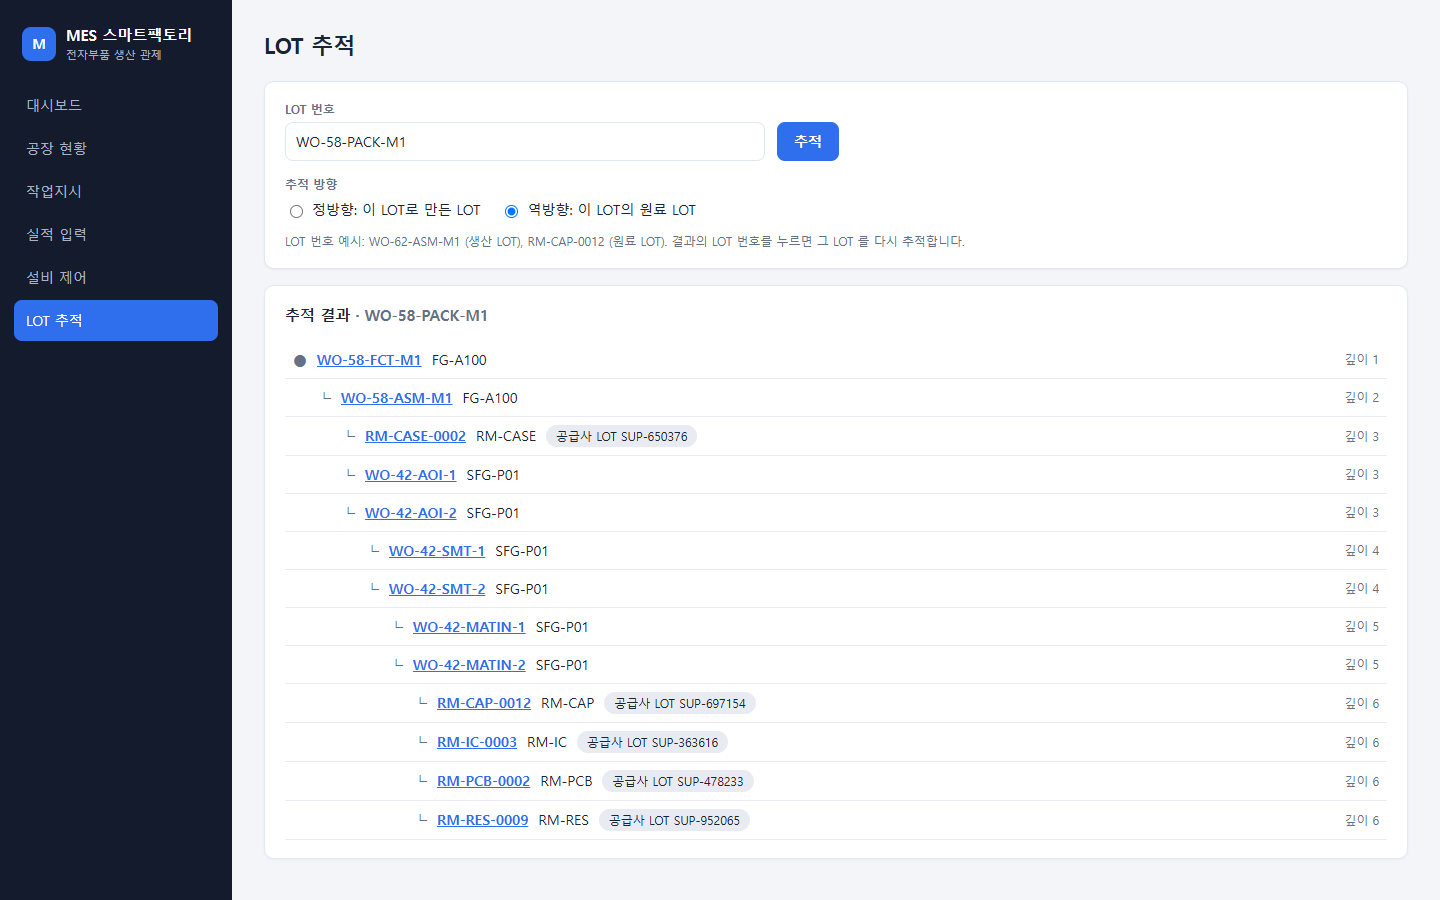
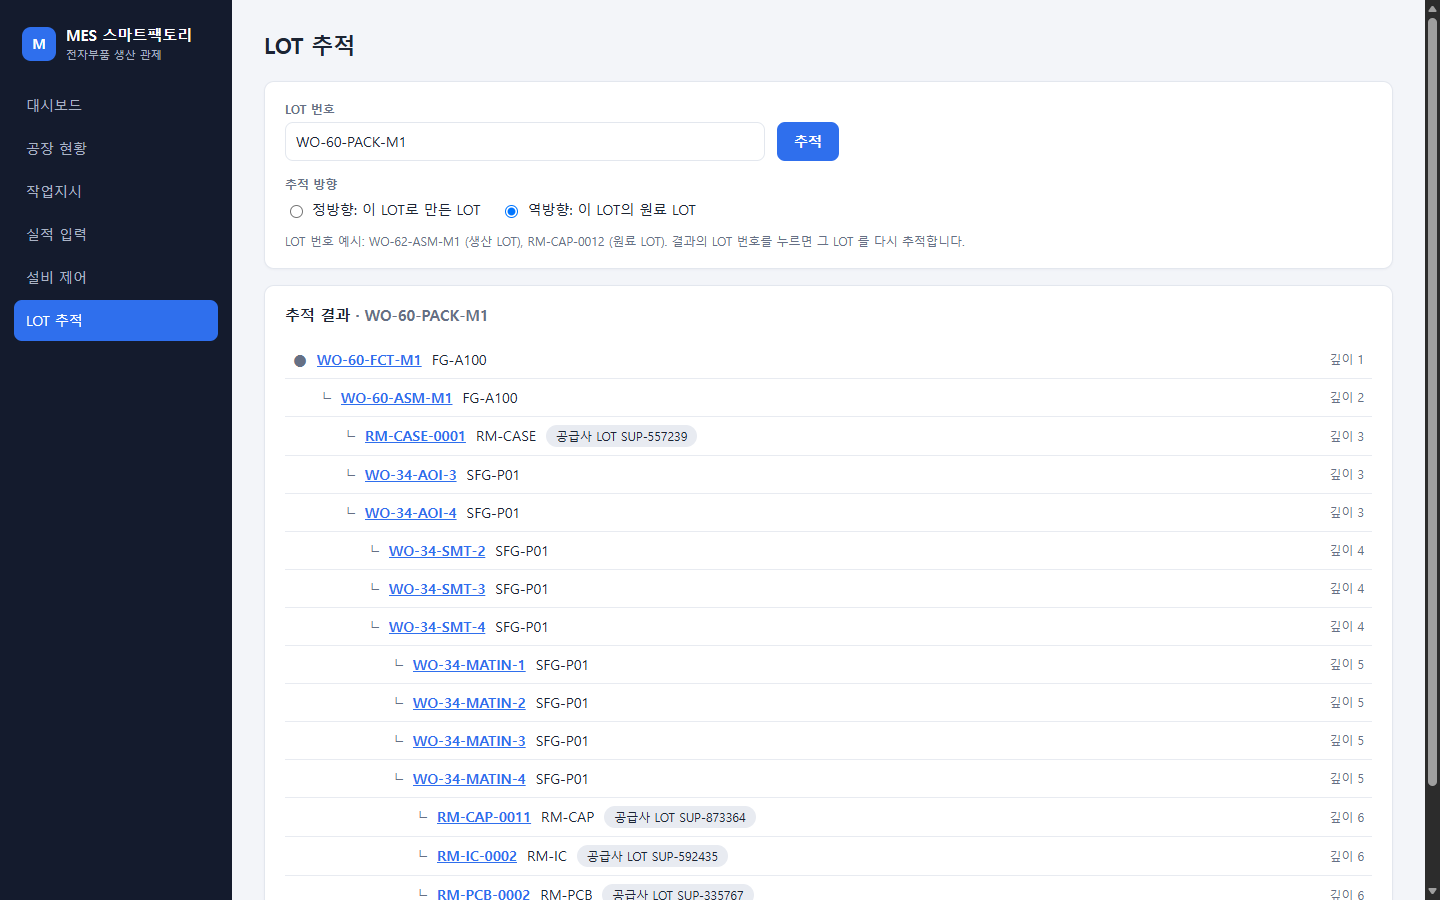
docs: reshoot screenshots with UI-driven data; document WIP and concurrency rules
All seven screenshots come from one session: reset DB, simulator
quick-fill plus continuous run, then the L1-SMT-01 DOWN change, a new
work order (WO-60) and its ASM/FCT/PACK results entered through the UI
forms (headless Edge driven over CDP), so the captions are literally
true. README: no duplicate dashboard image, upstream-WIP 422 rule,
commit-before-response, API/simulator concurrency, test counts
(pytest 135, vitest 54). erd.md: manual-entry WIP rule and WO lock.

diff --git a/README.md b/README.md
@@ -44,41 +44,41 @@ flowchart LR
 
 ## 화면
 
-모든 스크린샷은 시뮬레이터가 돌고 있는 실제 실행 화면입니다(가상 데이터, 헤드리스 Edge 로 캡처). 시뮬레이터로 약 50시간(`--once 300`, 틱 10분)을 채운 뒤 `--speed 60` 연속 모드를 켜 둔 상태이며, 화면 값은 실행 시점에 따라 달라집니다.
+모든 스크린샷은 시뮬레이터가 돌고 있는 실제 실행 화면이며 한 번의 실행에서 연속으로 캡처했습니다(가상 데이터, 헤드리스 Edge 1440x900). 시뮬레이터로 약 50시간(`--once 300`, 틱 10분)을 채운 뒤 `--speed 60` 연속 모드를 켜 두었고, 그 상태에서 **설비 정지, 작업지시 등록, 실적 입력은 모두 브라우저 화면의 폼을 직접 조작해**(Edge 를 DevTools 프로토콜로 구동해 선택·입력·버튼 클릭) 만들었습니다. 화면 값은 실행 시점에 따라 달라집니다.
 
 ### 1. 대시보드 (`/`)
-![대시보드](docs/screenshots/dashboard.png)
+맨 위 이미지가 대시보드입니다.
 
-KPI 카드(최근 24시간(2교대) 평균 OEE, 공정 전체 누적 불량률, 가동 설비 수), 설비별 OEE 와 공정별 불량률 차트, 진행 중 작업지시 진행률. 수치는 전부 SQL 뷰의 결과입니다.
+KPI 카드(최근 24시간(2교대) 평균 OEE, 공정 전체 누적 불량률, 가동 설비 수), 설비별 OEE 와 공정별 불량률 차트, 진행 중 작업지시 진행률. 수치는 전부 SQL 뷰의 결과입니다. DB 에 생산 실적이 하나도 없으면(초기화 직후) 차트 대신 "데이터가 없습니다. 시뮬레이터를 실행하세요" 안내가 나옵니다.
 
 ### 2. 공장 현황 — Digital Twin 2D (`/floor`)
 ![공장 현황](docs/screenshots/floor.png)
 
-라인 x 공정 순서의 배치도에서 설비가 가동(초록)/대기(노랑)/정지(빨강) 로 표시됩니다. 설비를 클릭하면 오른쪽에 상태·사유·시작 시각, 최근 교대별 가동/성능/양품률과 OEE, 최근 실적이 나옵니다. 위 캡처는 `L1-SMT-01` 을 설비 제어 화면에서 설비고장으로 정지시킨 뒤 선택한 모습입니다.
+라인 x 공정 순서의 배치도에서 설비가 가동(초록)/대기(노랑)/정지(빨강) 로 표시됩니다. 설비를 클릭하면 오른쪽에 상태·사유·시작 시각, 최근 교대별 가동/성능/양품률과 OEE, 최근 실적이 나옵니다. 위 캡처는 `L1-SMT-01` 을 설비 제어 화면(6번)에서 설비고장으로 정지시킨 뒤 배치도에서 선택한 모습입니다.
 
 ### 3. 작업지시 (`/work-orders`)
 ![작업지시](docs/screenshots/work-orders.png)
 
-상태별 필터, 진행률 막대. 오른쪽 위 "신규 등록" 으로 품목(완제품/반제품)·라인·수량·납기일을 입력해 PLANNED 작업지시를 만듭니다. 행을 클릭하면 상세(공정별 누적 양품/불량, 생성된 LOT 목록)로 이동합니다.
+상태별 필터, 진행률 막대. 오른쪽 위 "신규 등록" 으로 품목(완제품/반제품)·라인·수량·납기일을 입력해 PLANNED 작업지시를 만듭니다. 행을 클릭하면 상세(공정별 누적 양품/불량, 생성된 LOT 목록)로 이동합니다. 위 캡처 맨 위의 `WO-60`·`WO-59` 는 이 화면의 "신규 등록" 폼으로 만들고 실적 입력 화면에서 공정별 실적을 입력한 작업지시이고, 나머지는 시뮬레이터가 만든 것입니다.
 
 ### 4. 실적 입력 (`/results/new`)
 ![실적 입력](docs/screenshots/result-entry.png)
 
-작업지시 → 해당 품목 라우팅의 공정 → 해당 라인·공정의 설비를 연쇄 선택하고, 양품 수량·소요 시간·불량 내역(불량코드, 재작업/폐기, 수량)을 입력합니다. 서버가 LOT 를 자동 생성하고 직전 공정 LOT(첫 공정이면 원자재 공급사 LOT)와 계보로 연결합니다. 재고 부족·초과생산 같은 DB 규칙 위반은 409 와 한국어 사유로 화면에 표시됩니다.
+작업지시 → 해당 품목 라우팅의 공정 → 해당 라인·공정의 설비를 연쇄 선택하고, 양품 수량·소요 시간·불량 내역(불량코드, 재작업/폐기, 수량)을 입력합니다. 서버가 LOT 를 자동 생성하고 직전 공정 LOT(첫 공정이면 BOM 자재 LOT: 원자재 공급사 LOT·반제품 LOT)와 계보로 연결합니다. 후공정은 **전공정 재공**(직전 공정 누적 양품 − 이 공정 누적 투입(양품+불량))까지만 입력할 수 있어, 넘으면 `422 전공정 재공이 부족합니다 (가능 수량: N)` 으로 거부합니다(시뮬레이터와 같은 식). 그래서 수동 입력 LOT 도 항상 앞 공정 LOT 와 계보가 이어집니다. 재고 부족·초과생산 같은 DB 규칙 위반은 409 와 한국어 사유로 화면에 표시됩니다. 위 캡처는 화면에서 등록한 `WO-60`(센서 모듈 A100, 30개)에 조립 30, 기능검사 28(기능불량 폐기 2)을 입력한 뒤, 포장 27 + 외관불량 재작업 1 을 입력하는 폼입니다.
 
 ![실적 등록 완료](docs/screenshots/result-entry-saved.png)
 
-등록하면 생성된 LOT 번호(`WO-<작업지시>-<공정코드>-M<순번>`)가 링크로 나오고, 누르면 LOT 추적 화면으로 이동합니다.
+등록하면 생성된 LOT 번호(`WO-<작업지시>-<공정코드>-M<순번>`)가 링크로 나오고, 누르면 LOT 추적 화면으로 이동합니다(위 캡처: `WO-60-PACK-M1`).
 
 ### 5. LOT 추적 (`/lots`)
 ![LOT 추적](docs/screenshots/lot-trace.png)
 
-LOT 번호와 방향(정방향: 이 LOT 로 만든 LOT, 역방향: 이 LOT 의 원료 LOT)을 고르면 `trace_forward` / `trace_backward` 결과를 깊이별 트리로 보여 줍니다. 위 캡처는 화면에서 수동 입력한 포장 LOT `WO-58-PACK-M1` 의 역방향 추적입니다. 기능검사 → 조립 → 시뮬레이터가 만든 반제품(AOI → SMT → 자재투입) LOT 와 원자재 공급사 LOT 까지 거슬러 올라갑니다. 결과의 LOT 번호를 누르면 그 LOT 를 다시 추적합니다.
+LOT 번호와 방향(정방향: 이 LOT 로 만든 LOT, 역방향: 이 LOT 의 원료 LOT)을 고르면 `trace_forward` / `trace_backward` 결과를 깊이별 트리로 보여 줍니다. 위 캡처는 4번에서 화면으로 입력한 포장 LOT `WO-60-PACK-M1` 의 역방향 추적입니다(완료 안내의 LOT 링크를 누른 뒤 역방향 선택). 기능검사(`WO-60-FCT-M1`) → 조립(`WO-60-ASM-M1`) → 조립에 투입된 케이스 원자재 LOT 와 시뮬레이터가 만든 반제품 LOT(`WO-34` AOI → SMT → 자재투입) → 원자재 공급사 LOT 까지 거슬러 올라갑니다. 결과의 LOT 번호를 누르면 그 LOT 를 다시 추적합니다.
 
 ### 6. 설비 제어 (`/equipment`)
 ![설비 제어](docs/screenshots/equipment.png)
 
-설비별로 상태(가동/대기/정지)와 비가동 사유를 골라 변경합니다. 정지(DOWN)는 사유가 필수입니다. 열려 있는 상태 로그를 닫고 새 로그를 여는 동작이며(설비당 진행 중 로그는 1개라는 DB 제약 준수), "이력" 버튼으로 상태 이력을 봅니다. 위 캡처에서 `L1-SMT-01` 이 설비고장으로 정지 중입니다.
+설비별로 상태(가동/대기/정지)와 비가동 사유를 골라 변경합니다. 정지(DOWN)는 사유가 필수입니다. 열려 있는 상태 로그를 닫고 새 로그를 여는 동작이며(설비당 진행 중 로그는 1개라는 DB 제약 준수), "이력" 버튼으로 상태 이력을 봅니다. 행의 선택값은 서버 상태가 바뀌면(시뮬레이터의 전이 포함) 현재 상태로 다시 맞춰집니다. 위 캡처는 이 화면에서 `L1-SMT-01` 을 정지·설비고장으로 바꾸고 "변경" 을 누른 직후입니다.
 
 ## 프로젝트 구조
 
@@ -200,8 +200,8 @@ cd frontend; npm test           # vitest 컴포넌트 테스트 (npx vitest run 
 cd frontend; npm run build      # 타입체크(tsc -b) + 프로덕션 빌드
 ```
 
-- `pytest` 108개: 스키마·제약(설비당 진행 중 로그 1개, 설비 ID 순서), 세션 시간대, 트리거(backflush, 초과생산, 재고 부족 롤백, 재고 행 없음 거부, 상태 전이), LOT 추적(순환 포함), 뷰(고정 시나리오, 야간조 귀속, 교대 경계 분할, 진행 중 교대의 now() 캡, 0 나눔·품질률 NULL), 시뮬레이터(seed 재현성, 라인별 작업지시, 일감 없을 때 자재대기, 완전한 교대의 성능률·OEE 범위, 검사 공정 불량 집중, LOT 계보가 라우팅을 따르는지, 교대 경계 실적 분할, 시계 규칙, 정지 처리, CLI 가 미래 시각을 쓰지 않는지), API(`tests/api`: 조회 엔드포인트와 직렬화, 실제 행이 있을 때 KPI/OEE/불량률 값, 작업지시 등록, 실적 입력의 LOT·계보·수불 생성과 순번, 재고 부족·초과생산 409, 잘못된 조합 422/404, 설비 상태 변경, 정적 서빙과 SPA fallback).
-- `vitest` 49개: 배치도, 상태 배지, 작업지시 등록 폼, 실적 입력 폼 검증, LOT 추적 화면, 대시보드.
+- `pytest` 135개: 스키마·제약(설비당 진행 중 로그 1개, 설비 ID 순서), 세션 시간대, 트리거(backflush, 초과생산, 재고 부족 롤백, 재고 행 없음 거부, 상태 전이), LOT 추적(순환 포함), 뷰(고정 시나리오, 야간조 귀속, 교대 경계 분할, 진행 중 교대의 now() 캡, 0 나눔·품질률 NULL), 시뮬레이터(seed 재현성, 라인별 작업지시, 일감 없을 때 자재대기, 완전한 교대의 성능률·OEE 범위, 검사 공정 불량 집중, LOT 계보가 라우팅을 따르는지, 교대 경계 실적 분할, 시계 규칙, 정지 처리, CLI 가 미래 시각을 쓰지 않는지), API(`tests/api`: 조회 엔드포인트와 직렬화, 실제 행이 있을 때 KPI/OEE/불량률 값, 작업지시 등록, 실적 입력의 LOT·계보·수불 생성과 순번, 재고 부족·초과생산 409, 후공정 입력의 전공정 재공 한도 422, 잘못된 조합 422/404, 설비 상태 변경, 동시 쓰기 충돌 409(시뮬레이터와 경쟁 재현), 응답 전 commit(commit 실패 시 성공 응답이 나가지 않음), 정적 서빙과 SPA fallback(UNC·드라이브·NUL 경로가 파일시스템에 닿지 않음)). 시뮬레이터는 API 가 연 상태 로그와 충돌해도 죽지 않고 그 설비만 한 틱 건너뜁니다(테스트 포함).
+- `vitest` 54개: 배치도, 상태 배지, 작업지시 등록 폼, 실적 입력 폼 검증, LOT 추적 화면, 대시보드(실제 빈 DB 응답 모양에서의 안내), 설비 제어(서버 상태 재동기화).
 - `pytest` 는 `mes_test` DB 만 사용하며(세션 시작 시 그 DB 의 public 스키마를 비움), 개발 DB 는 건드리지 않습니다. 테스트는 `mes` 롤이 `mes_test` 에 접속할 수 있어야 하므로 1단계의 DB 생성이 필요합니다.
 
 ## 시연 순서
@@ -211,7 +211,7 @@ cd frontend; npm run build      # 타입체크(tsc -b) + 프로덕션 빌드
 1. **대시보드**: KPI 카드와 설비별 OEE, 공정별 불량률이 5초마다 갱신되는 것을 확인합니다.
 2. **공장 현황**: 배치도에서 설비 상태 색이 바뀌는 것을 보고, 설비 하나를 눌러 최근 OEE 와 실적을 봅니다.
 3. **작업지시 등록**: "신규 등록" 으로 완제품(예: 센서 모듈 A100)·라인·수량·납기일을 입력합니다. PLANNED 로 생성됩니다.
-4. **실적 입력**: 방금 만든 작업지시를 선택해 첫 공정부터 양품·불량을 입력합니다. 생성된 LOT 번호(`WO-<작업지시>-<공정>-M1`)가 표시되고, 작업지시 상태가 PLANNED → RUNNING 으로 바뀝니다. 앞 공정 LOT 가 필요한 완제품은 같은 방식으로 공정을 차례로 입력합니다. 계획 수량을 넘기거나 재고가 모자라게 입력하면 거부 사유가 표시됩니다.
+4. **실적 입력**: 방금 만든 작업지시를 선택해 첫 공정부터 양품·불량을 입력합니다. 생성된 LOT 번호(`WO-<작업지시>-<공정>-M1`)가 표시되고, 작업지시 상태가 PLANNED → RUNNING 으로 바뀝니다. 이어서 다음 공정을 차례로 입력합니다(후공정은 앞 공정 양품 중 아직 투입되지 않은 수량까지만 가능). 첫 공정을 건너뛰고 포장부터 입력하거나, 계획 수량을 넘기거나, 재고가 모자라게 입력하면 거부 사유가 표시됩니다.
 5. **LOT 추적**: 실적 입력 완료 화면의 LOT 링크로 이동해 역방향 추적으로 원자재 공급사 LOT 까지 거슬러 올라가고, 원자재 LOT 를 눌러 정방향으로 리콜 범위를 보여 줍니다.
 6. **설비 제어**: 설비 하나를 정지(DOWN, 사유 선택)로 바꾸고 공장 현황에서 빨간색으로 바뀐 것을 확인한 뒤, 가동으로 복구합니다.
 
@@ -219,7 +219,7 @@ cd frontend; npm run build      # 타입체크(tsc -b) + 프로덕션 빌드
 
 ## 직접 SQL 로 LOT 추적
 
-번호 형식은 생산 LOT `WO-<작업지시>-<공정코드>-<순번>`(예: `WO-2-PACK-1`), 화면에서 수동 입력한 실적의 LOT `WO-<작업지시>-<공정코드>-M<순번>`(예: `WO-58-PACK-M1`), 원자재(공급사) LOT `<품목코드>-<순번 4자리>`(예: `RM-IC-0001`)입니다.
+번호 형식은 생산 LOT `WO-<작업지시>-<공정코드>-<순번>`(예: `WO-2-PACK-1`), 화면에서 수동 입력한 실적의 LOT `WO-<작업지시>-<공정코드>-M<순번>`(예: `WO-60-PACK-M1`), 원자재(공급사) LOT `<품목코드>-<순번 4자리>`(예: `RM-IC-0001`)입니다.
 ```sql
 -- 완제품 포장 LOT 의 투입 이력: 기능검사 → 조립 → AOI 를 통과한 반제품 LOT 2종 → SMT → 자재투입 → 원자재 공급사 LOT
 SELECT * FROM trace_backward('WO-2-PACK-1') ORDER BY depth, lot_no;
@@ -285,7 +285,8 @@ LEFT JOIN res r ON r.equipment_id = a.equipment_id AND r.shift_id = a.shift_id
 ## 설계 결정
 
 - **지표는 SQL, API 는 얇게**: API 는 뷰/함수를 SELECT 해 직렬화만 하고 JS/Python 에서 KPI 를 다시 계산하지 않습니다. ORM 없이 psycopg 로 SQL 을 그대로 보이게 썼습니다.
-- **입력도 DB 규칙을 통과**: 실적 입력은 savepoint 안에서 LOT·계보·실적·불량 내역을 한꺼번에 INSERT 하고, 트리거나 CHECK 가 거부하면 전부 롤백합니다(`backend/app/services/results.py`). 요청 단위로 성공 시 commit, 예외 시 rollback 합니다(`backend/app/deps.py`).
+- **입력도 DB 규칙을 통과**: 실적 입력은 savepoint 안에서 LOT·계보·실적·불량 내역을 한꺼번에 INSERT 하고, 트리거나 CHECK 가 거부하면 전부 롤백합니다(`backend/app/services/results.py`). 같은 savepoint 첫머리에서 작업지시 행을 `FOR UPDATE` 로 잠가, 같은 작업지시에 대한 동시 입력의 재공 검사·LOT 번호·계보 할당이 서로 끼어들지 않게 합니다. 요청 단위로 성공 시 commit, 예외 시 rollback 하며(`backend/app/deps.py`), 쓰기 엔드포인트는 `Depends(get_conn, scope="function")` 이라 commit 이 **응답을 보내기 전에** 끝납니다(FastAPI 기본 스코프는 응답 후에 실행되어 commit 이 실패해도 사용자는 성공을 보게 됨).
+- **API 와 시뮬레이터의 동시 쓰기**: 둘 다 같은 테이블에 씁니다. 시뮬레이터는 틱마다 열린 상태 로그를 먼저 잠그고 읽으며, 설비별 savepoint 로 열린 로그 충돌(유일 인덱스 위반) 시 그 설비만 한 틱 건너뜁니다. 원자재 공급사 LOT 번호가 같은 순간 겹치거나 교착이 나면 시뮬레이터는 그 실적만 건너뛰고 다음 틱에 다시 시도합니다. API 쪽에서 이런 충돌이 나면 500 대신 `409 동시에 다른 입력이 처리되었습니다. 다시 시도하세요` 를 돌려줍니다.
 - **수동 LOT 와 시뮬레이터 LOT 구분**: 수동 입력 LOT 는 `-M<순번>` 접미사를 써서 시뮬레이터의 순번과 충돌하지 않고, 계보 규칙(직전 공정 LOT, 첫 공정은 원자재 공급사 LOT, 완제품 조립은 반제품 AOI LOT)은 시뮬레이터 함수를 재사용해 같게 유지했습니다.
 - **폴링**: 화면은 5초 주기 폴링(TanStack Query `refetchInterval`)입니다. 이 규모에서는 WebSocket 없이도 충분하고 서버가 단순합니다.
 - **배치도는 격자**: 좌표 테이블 없이 라인 x 공정 순서로 격자 배치한 SVG 입니다(외부 3D/배치 라이브러리 없음). 한 셀에 설비가 여럿이면 나란히 표시하도록 했지만 현재 시드는 셀당 1대입니다.
@@ -301,7 +302,8 @@ KPI 뷰에 실적 100,000행을 적재해 측정했습니다. `v_oee_daily` 가 
 - **로그인·권한 없음**: API 에 인증이 없어 화면에서 누구나 작업지시 등록, 실적 입력, 설비 상태 변경을 할 수 있습니다. 로컬 데모 용도이며 외부에 노출하면 안 됩니다. 기본 바인딩도 `127.0.0.1` 입니다.
 - **폴링이며 실시간 푸시 아님**: 5초 지연이 있고 WebSocket/SSE 는 쓰지 않았습니다. 모바일 화면 최적화도 하지 않았습니다(데스크톱 브라우저 기준).
 - **수동 입력은 단순화**: 실적 시각은 서버의 현재 시각(KST)이고 시작 시각은 입력한 소요 시간(분, 0 초과 60 이하)으로 계산합니다. 교대는 종료 시각 기준으로 귀속하며 교대 경계에서 실적을 나누지 않습니다(시뮬레이터는 나눕니다). 작업지시의 상태 변경 화면은 없고 PLANNED → RUNNING → DONE 은 트리거가 처리합니다.
-- **수동 설비 제어와 시뮬레이터 충돌**: 시뮬레이터가 돌고 있으면 수동 상태 변경이 시뮬레이터에 의해 덮일 수 있습니다(시연 순서 참고).
+- **수동 설비 제어와 시뮬레이터 충돌**: 시뮬레이터가 돌고 있으면 수동 상태 변경이 시뮬레이터에 의해 덮일 수 있습니다(시연 순서 참고). 같은 순간에 겹치면 화면에 "다시 시도하세요"(409)가 표시될 수 있습니다.
+- **수동 실적과 시뮬레이터 실적이 같은 재공을 씀**: 시뮬레이터는 진행 중인 작업지시라면 화면에서 만든 작업지시에도 생산할 수 있고, 둘 다 같은 전공정 재공을 나눠 씁니다(그만큼 가능 수량이 줄어듦). 시뮬레이터의 일감 계산은 틱 시작 시점의 값이라 같은 틱 안의 수동 입력과 겹치면 그 실적의 계보 할당이 투입량보다 적을 수 있습니다(수동 입력 쪽은 잠금·검사로 막음).
 - **재고 규칙 단순화**: 소요 자재는 첫 공정에서 BOM 직계 자식만 차감하고, 결과물은 마지막 공정에서만 가산합니다. 단일 창고, 품목당 1행입니다.
 - **LOT 계보는 시뮬레이터 규칙**: 시뮬레이터가 실제 투입량을 선입선출(FIFO)로 LOT 에 할당해 계보를 만듭니다. 완제품 조립은 반제품 라우팅의 마지막 공정(AOI)을 통과한 LOT 만, 후공정은 같은 작업지시의 바로 앞 공정 LOT 만, 첫 공정은 원자재 공급사 LOT(1만 개 단위, 여러 작업지시가 나눠 씀)를 투입합니다. 실제 현장의 바코드 스캔 같은 투입 실적이 아니라 규칙으로 만든 계보이며, 개별 시리얼 번호 추적은 제외했습니다. 원자재 LOT 는 계보용이며 재고 수량(`inventory`)과는 별도로 관리합니다.
 - **FTY 는 공장 전체 단일 값**: 6개 공정의 `양품/투입` 곱이며 제품별 실제 경로 수율이 아닙니다.

diff --git a/docs/erd.md b/docs/erd.md
@@ -217,7 +217,7 @@ erDiagram
 - **첫 공정의 반제품 투입**(완제품 조립): 그 반제품 품목 라우팅의 **마지막 공정**(AOI 검사)을 통과한 LOT 만 투입한다. 자재투입·SMT 단계의 미검사 LOT 는 연결되지 않는다.
 - **첫 공정의 원자재 투입**: 공급사 LOT(`<품목코드>-<순번 4자리>`, 예 `RM-IC-0001`, 1만 개 단위, `supplier_lot_no` 보유, `wo_id` NULL)를 여러 작업지시가 나눠 쓰고, 잔량이 모자라면 새 공급사 LOT 를 만든다.
 - **이후 공정**: 같은 작업지시의 바로 앞 공정 LOT.
-- **웹에서 수동 입력한 실적**(`POST /api/results`, `backend/app/services/results.py`)도 같은 계보 규칙을 쓴다. LOT 번호는 `WO-<작업지시>-<공정코드>-M<순번>` 이며 `M` 접두사로 시뮬레이터의 순번(`WO-<작업지시>-<공정코드>-<순번>`)과 구분한다. 한 실적에 LOT 하나를 만들고(`lot.qty` = 양품), 시각은 서버 현재 시각(KST) 기준이며 시작 시각은 입력한 소요 시간(분)으로 계산한다. 교대는 종료 시각의 교대로 귀속하고 경계에서 실적을 나누지 않는다(시뮬레이터는 나눈다). 불량 내역은 `(불량코드, 구분)`별로 합산해 `defect_record` 에 넣고 `defect_qty`(재작업+폐기)와 `rework_qty` 를 같은 합계로 저장한다.
+- **웹에서 수동 입력한 실적**(`POST /api/results`, `backend/app/services/results.py`)도 같은 계보 규칙을 쓴다. LOT 번호는 `WO-<작업지시>-<공정코드>-M<순번>` 이며 `M` 접두사로 시뮬레이터의 순번(`WO-<작업지시>-<공정코드>-<순번>`)과 구분한다. 한 실적에 LOT 하나를 만들고(`lot.qty` = 양품), 시각은 서버 현재 시각(KST) 기준이며 시작 시각은 입력한 소요 시간(분)으로 계산한다. 교대는 종료 시각의 교대로 귀속하고 경계에서 실적을 나누지 않는다(시뮬레이터는 나눈다). 불량 내역은 `(불량코드, 구분)`별로 합산해 `defect_record` 에 넣고 `defect_qty`(재작업+폐기)와 `rework_qty` 를 같은 합계로 저장한다. 라우팅 2번째 이후 공정은 투입(양품+불량)이 **전공정 재공** = 직전 공정 누적 양품 − 이 공정 누적 투입 을 넘으면 422 로 거부하고(시뮬레이터 `_find_work` 와 같은 식), 직전 공정 LOT 잔량이 투입량을 다 덮지 못해도(데이터 불일치 방어) 422 로 거부하므로 수동 LOT 은 항상 계보가 이어진다. 검증·LOT 번호·계보 할당 전에 savepoint 안에서 작업지시 행을 `FOR UPDATE` 로 잠근다.
 - `tests/test_simulator.py::test_lot_genealogy_follows_routing` 이 위 규칙을 검증한다. 실제 바코드 투입 실적이 아니라 규칙으로 만든 계보이며, 원자재 LOT 는 계보용이고 재고 수량과는 별도다.
 
 ### 시뮬레이터 동작 모델 (요약)
